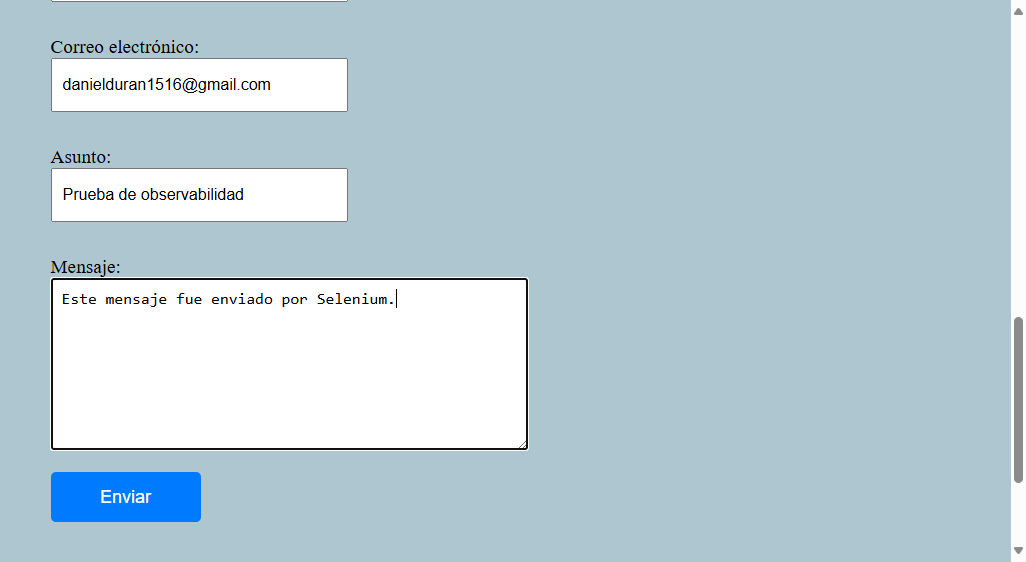
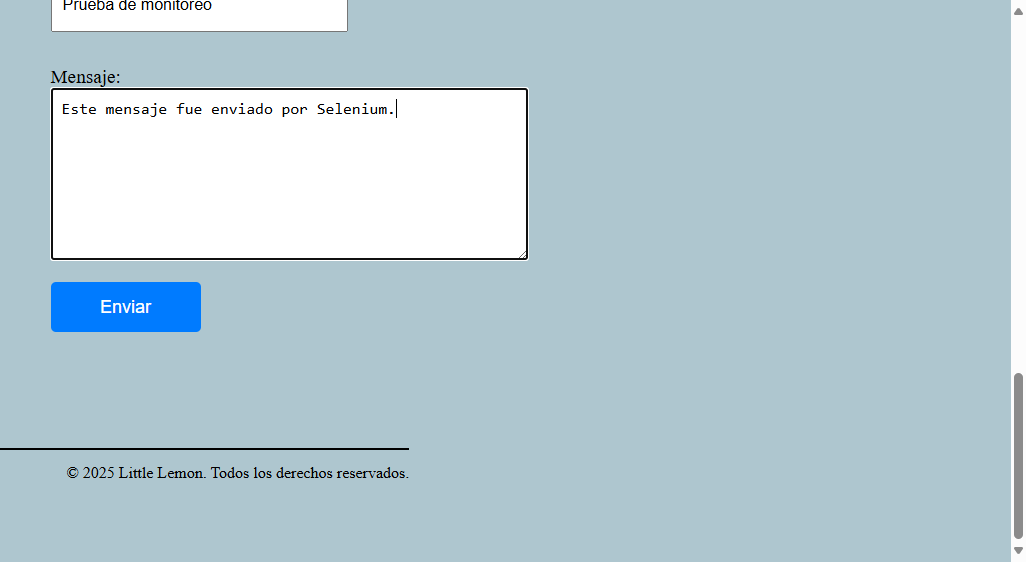
Cambio de nombre en reportes y ajustes en Monitor.py

diff --git a/reporte_monitoreo.html b/reporte_monitoreo.html
@@ -10,7 +10,7 @@
     <tr>
       <td>Abrir página principal</td>
       <td>OK</td>
-      <td>1.04s</td>
+      <td>1.06s</td>
     </tr>
     <tr>
       <td>Click en enlace 'Contacto'</td>

diff --git a/Monitor.py b/Monitor.py
@@ -40,7 +40,7 @@ try:
     # Rellenar formulario
     driver.find_element(By.ID, "nombre").send_keys("Daniel")
     driver.find_element(By.ID, "email").send_keys("danielduran1516@gmail.com")
-    driver.find_element(By.ID, "asunto").send_keys("Prueba de observabilidad")
+    driver.find_element(By.ID, "asunto").send_keys("Prueba de monitoreo")
     driver.find_element(By.ID, "mensaje").send_keys("Este mensaje fue enviado por Selenium.")
     log_result("Rellenar formulario de contacto", "OK")
 
@@ -62,9 +62,9 @@ finally:
 
     # Guardar reporte CSV
     df = pd.DataFrame(resultados)
-    df.to_csv("reporte_observabilidad.csv", index=False)
+    df.to_csv("reporte_monitoreo.csv", index=False)
 
     # Guardar reporte HTML 
-    df.to_html("reporte_observabilidad.html", index=False)
+    df.to_html("reporte_monitoreo.html", index=False)
 
-    print("✅ Monitoreo finalizado. Revisa 'reporte_observabilidad.csv', '.html' y 'screenshots/'")
+    print("✅ Monitoreo finalizado. Revisa 'reporte_monitoreo.csv', '.html' y 'screenshots/'")
